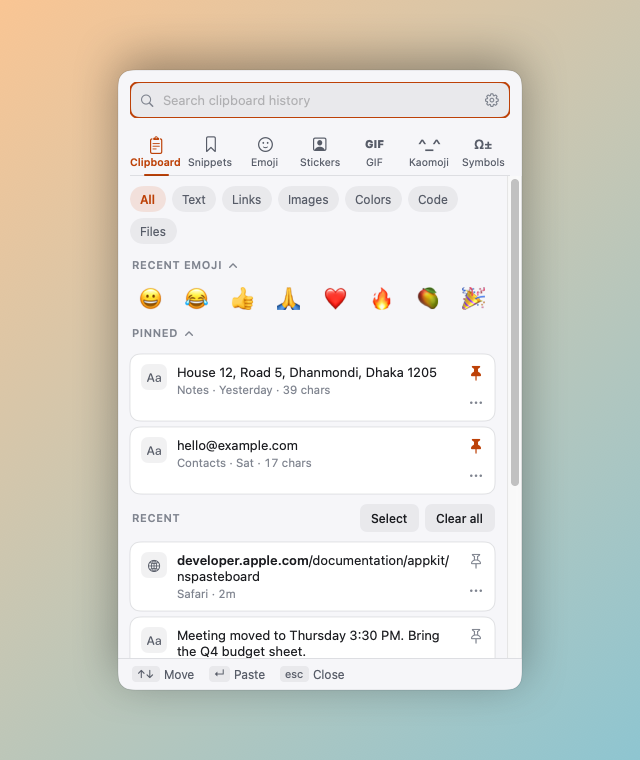
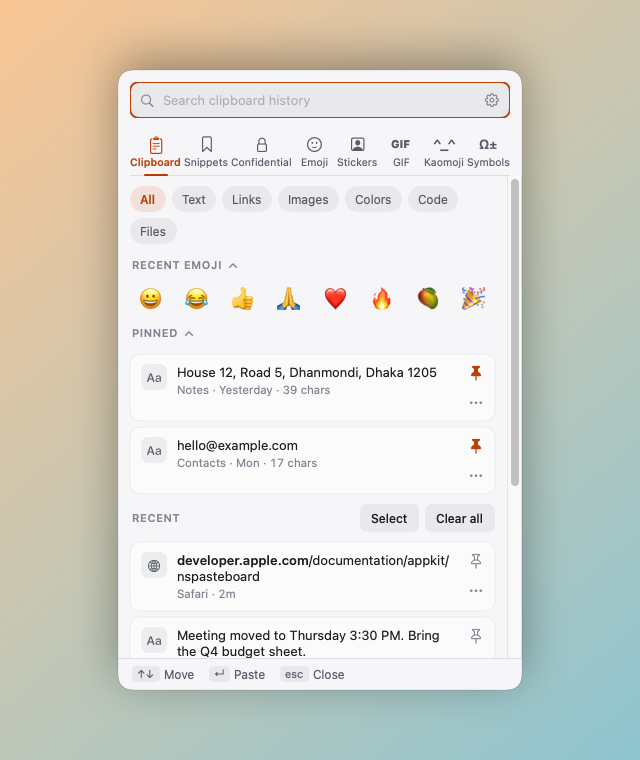
README: Confidential tab, tab hiding, Look setting and new screenshots

diff --git a/README.md b/README.md
@@ -41,6 +41,7 @@ All versions and release notes: [Releases](https://github.com/shakilnextive-beep
   <img src="docs/screenshots/symbols-dark.png" width="30%" alt="Symbols including Bangla">
 </p>
 <p align="center">
+  <img src="docs/screenshots/confidential-light.png" width="45%" alt="Confidential tab, locked">
   <img src="docs/screenshots/settings-dark.png" width="45%" alt="Settings">
 </p>
 
@@ -52,11 +53,13 @@ All versions and release notes: [Releases](https://github.com/shakilnextive-beep
 - **One-click paste** — click any item and it's pasted where you are typing. Paste several items in the order you pick.
 - **Smart actions** — paste as plain text, UPPERCASE / lowercase / Title Case, open a link, paste a colour as RGB or HEX, save as snippet.
 - **Snippets in folders** — text you type again and again, one click away.
+- **Confidential** — a locked tab for passwords, account numbers and private notes. It opens only with your Mac's login password (or Touch ID), keeps items encrypted in the macOS Keychain, locks again whenever Tuki closes, and clears pasted secrets from the clipboard after 30 seconds. Move any copied item in, or back out to Clipboard.
 - **Emoji, Kaomoji & Symbols** — every emoji, searchable; Mac key symbols and Bangla (৳ । ০–৯).
 - **GIFs** — search and paste animated GIFs (powered by GIPHY, needs a free key).
 - **Stickers** — turn any photo into an iPhone-style sticker with a white border, made on your Mac.
 - **Opens beside your text** — the panel appears next to where you type, never on top of it.
 - **Your shortcut** — <kbd>⇧</kbd><kbd>⌘</kbd><kbd>V</kbd> by default; change it in Settings.
+- **Your tabs, your look** — hide the tabs you don't use (right-click a tab), and choose Match Mac, Light or Dark.
 - **Settings** — what to save, history size, sort order, where the panel opens, menu bar icon, pause recording, clear on quit, and more.
 - **Automatic updates** — Tuki checks for new versions and installs them with one click. The old version is replaced; you never end up with two copies.
 - **Private** — your history stays on your Mac. Nothing is uploaded.
@@ -97,6 +100,8 @@ If you like Tuki, a ⭐ on this page helps others find it.
 - **ডাউনলোড:** উপরের [Download Tuki for Mac](https://github.com/shakilnextive-beep/Tuki/releases/latest/download/Tuki-mac.zip) লিংকে ক্লিক করুন। Zip খুলে Tuki-কে **Applications** folder-এ টেনে রাখুন।
 - **প্রথমবার খুললে** macOS সতর্কবার্তা দেখাতে পারে। তখন **System Settings → Privacy & Security**-এ গিয়ে **Open Anyway** চাপুন।
 - **ব্যবহার:** <kbd>⇧</kbd><kbd>⌘</kbd><kbd>V</kbd> চাপুন। Paste করার অনুমতি একবার দিতে হবে, Tuki নিজেই ধাপগুলো দেখিয়ে দেবে।
+- **Confidential:** গোপন জিনিস (password, account number) রাখার লক করা tab। খুলতে Mac-এর login password লাগে, Tuki বন্ধ হলেই আবার লক হয়ে যায়।
+- **নিজের মতো সাজান:** যে tab দরকার নেই সেটায় right-click করে লুকিয়ে রাখুন। Settings → Appearance থেকে Light বা Dark বেছে নিন।
 - **আপডেট:** নতুন version এলে Tuki নিজেই জানাবে। এক ক্লিকে আপডেট হয়ে যাবে, পুরোনোটা মুছে নতুনটা বসে যাবে।
 - **মতামত দিন:** [Reviews & Suggestions](https://github.com/shakilnextive-beep/Tuki/discussions/1) পাতায় লিখুন, অথবা ইমেইল করুন।
 - **Windows version:** শীঘ্রই আসছে।
